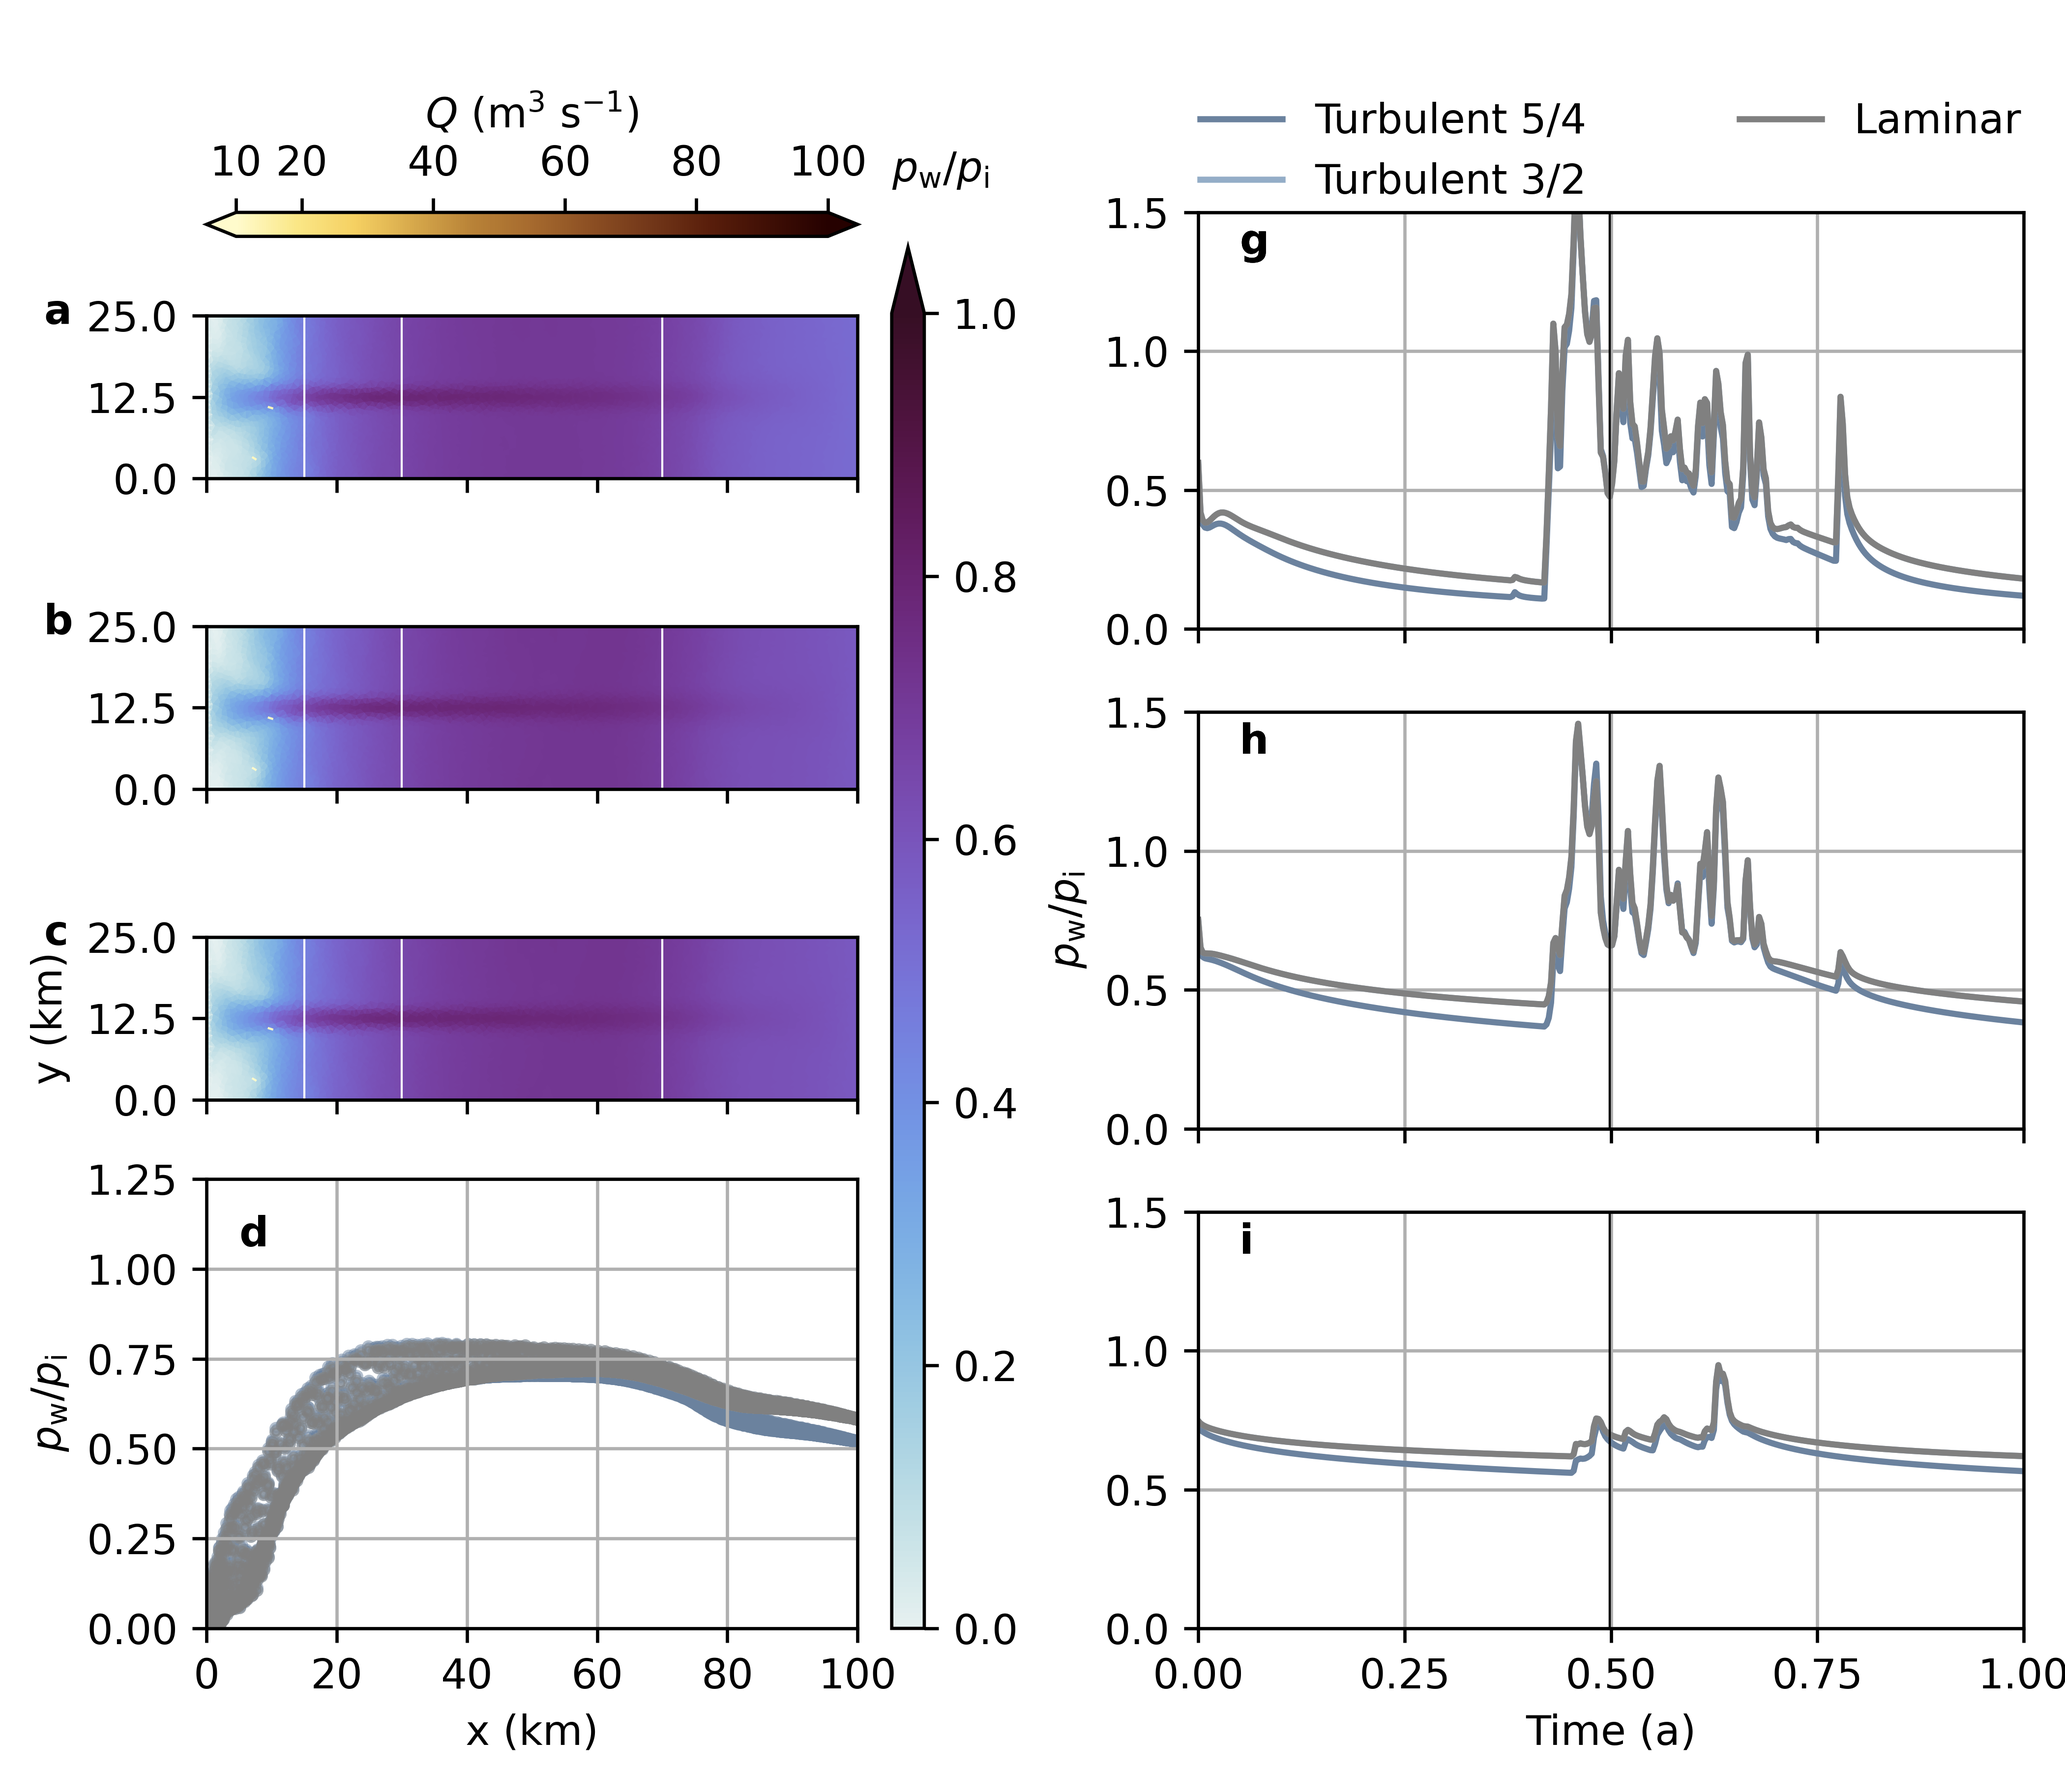
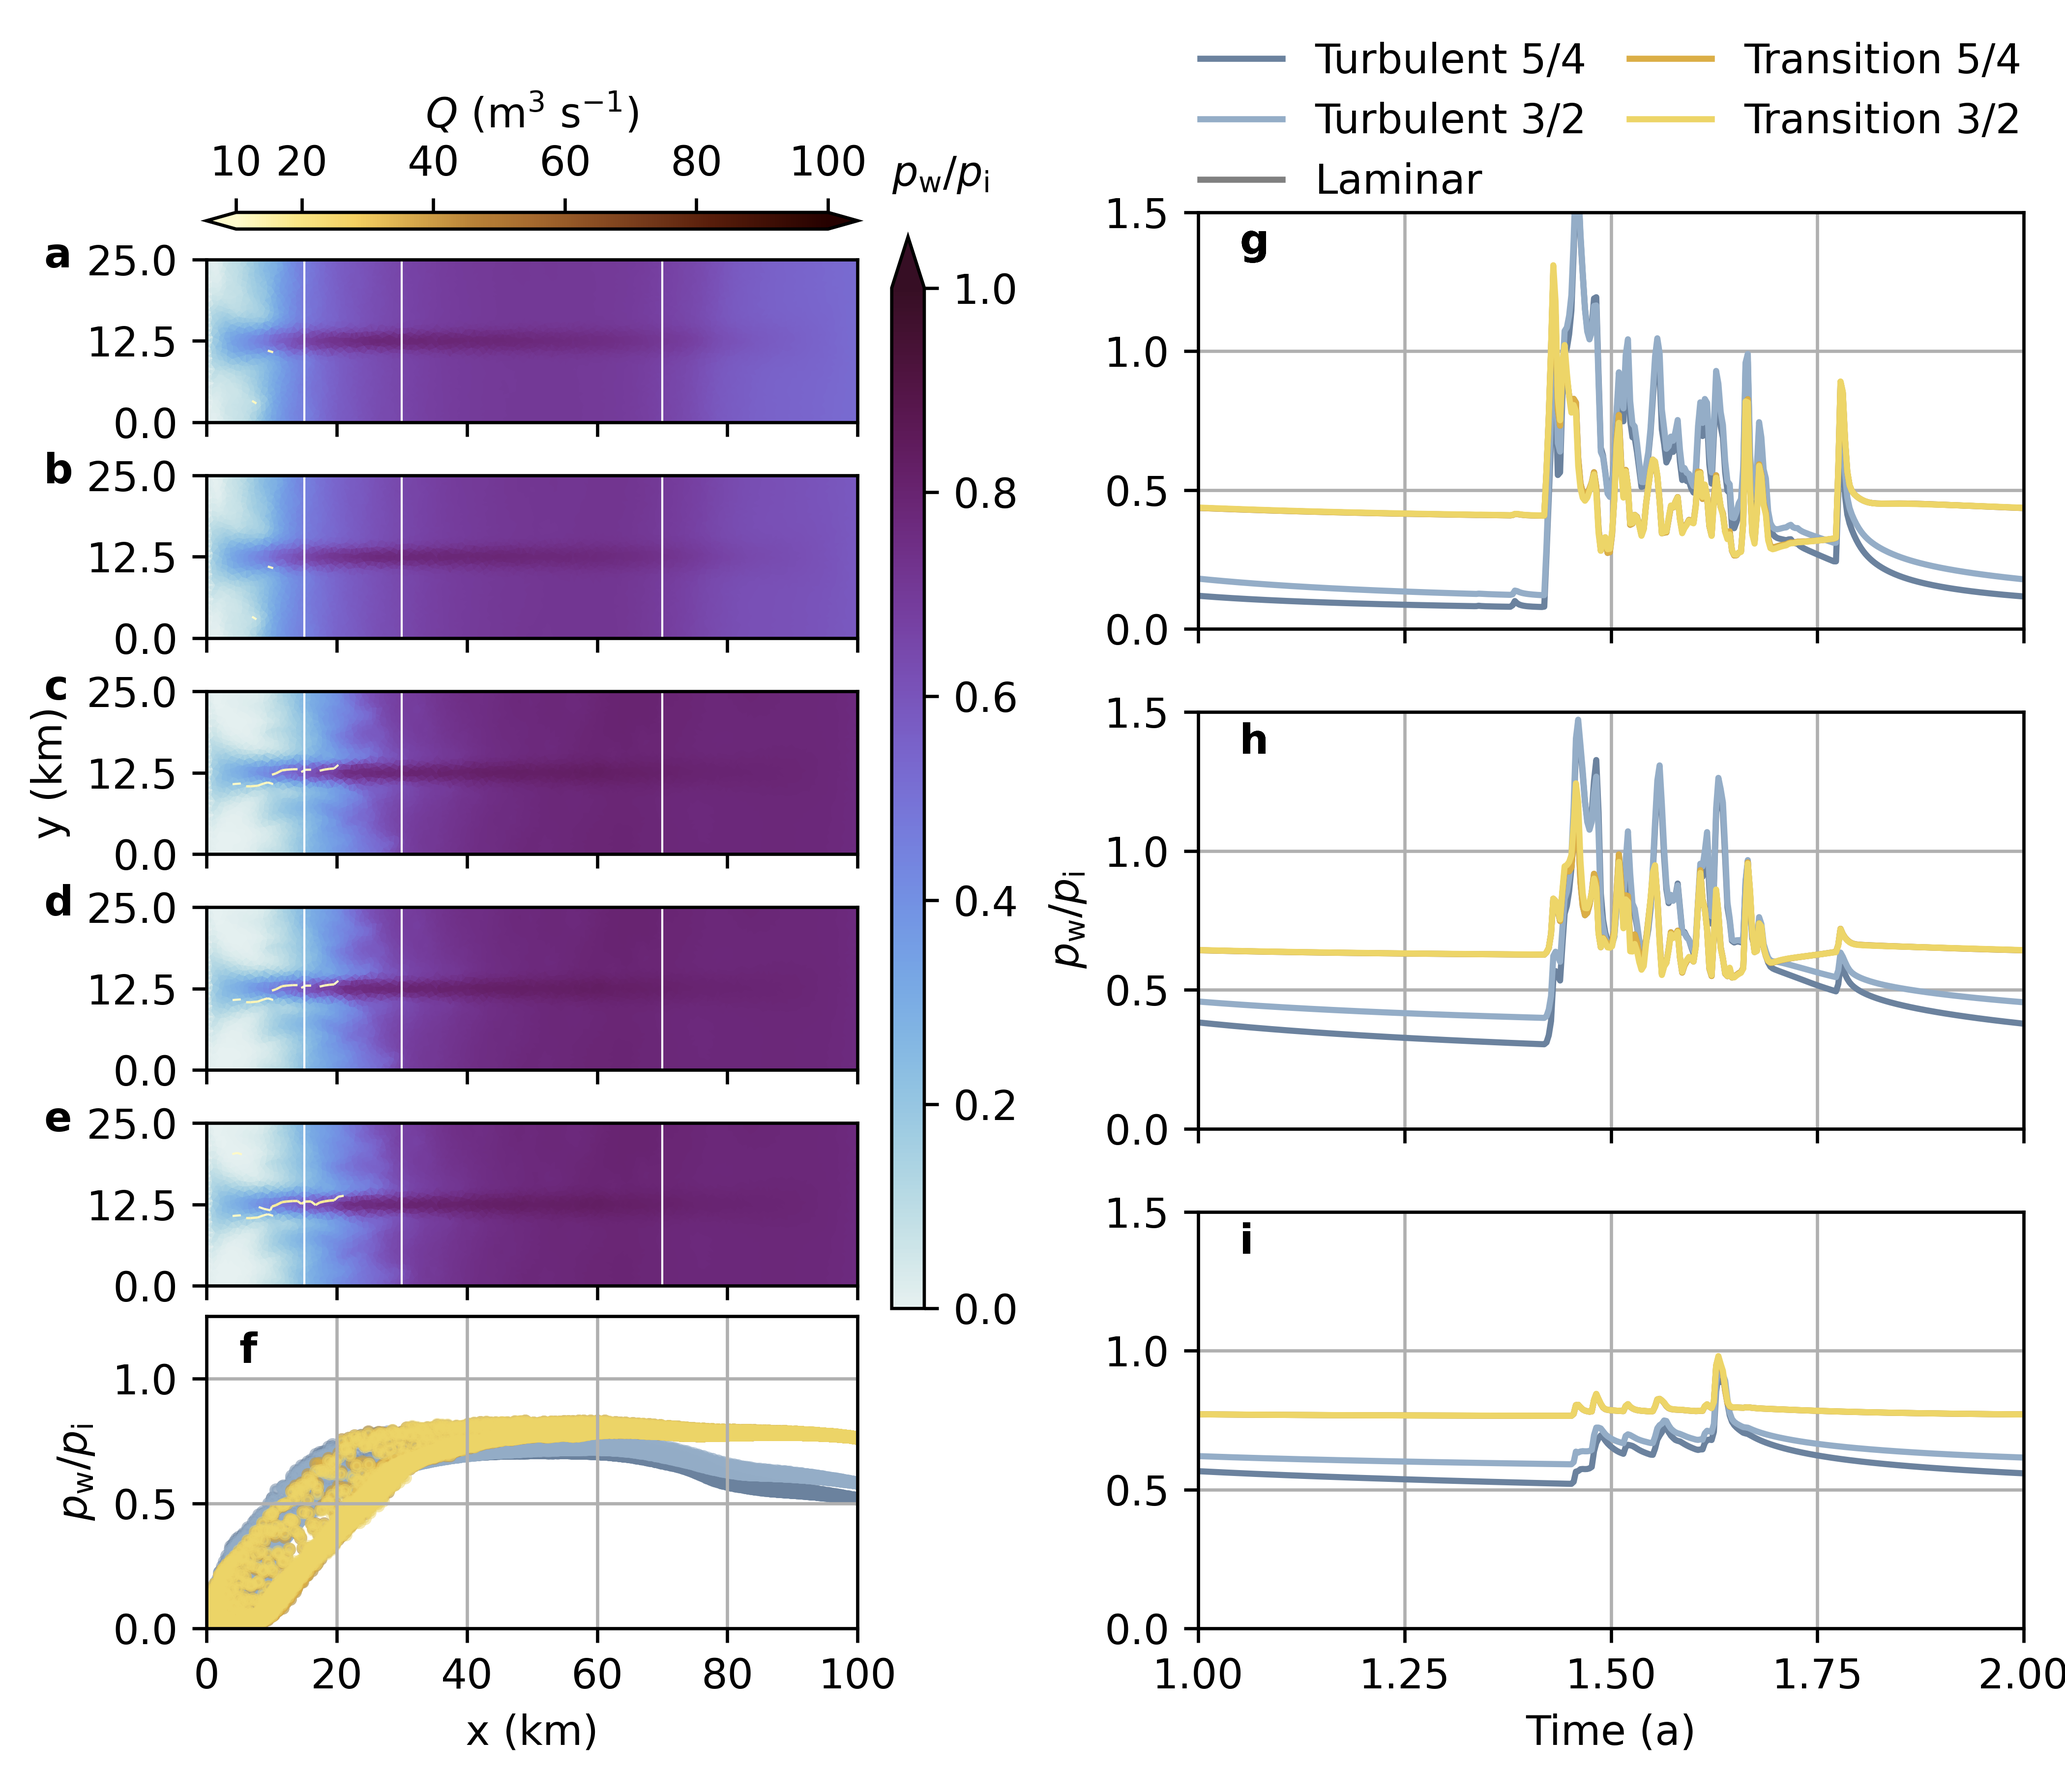
Figure updates

diff --git a/glads/03_kan_l_forcing_synth_topo/analysis/plot_composite_seasonal.py b/glads/03_kan_l_forcing_synth_topo/analysis/plot_composite_seasonal.py
@@ -19,7 +19,7 @@ import GladsPlot as gplt
 
 # Define fnames
 fname_pattern = '../RUN/output_%03d_seasonal.nc'
-cases = [101, 102, 102]
+cases = [101, 102, 104, 104, 105]
 n_cases = len(cases)
 figname = 'floatation_composite.png'
 
@@ -181,11 +181,11 @@ for j, xb in enumerate(x_bands):
     axi = axs_timeseries[j]
     if j<len(x_bands)-1:
         axi.set_xticklabels([])
-#    axi.set_xlim([1, 2])
+    axi.set_xlim([1, 2])
     axi.set_ylim([0, 1.5])
-    axi.set_xlim([0, 1])
-#    axi.set_xticks([1.0, 1.25, 1.5, 1.75, 2])
-    axi.set_xticks([0, 0.25, 0.5, 0.75, 1])
+#    axi.set_xlim([0, 1])
+    axi.set_xticks([1.0, 1.25, 1.5, 1.75, 2])
+#    axi.set_xticks([0, 0.25, 0.5, 0.75, 1])
     axi.grid()
 
 axs_timeseries[-1].set_xlabel('Time (a)')
